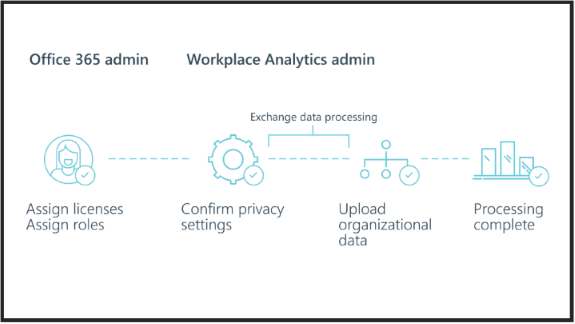
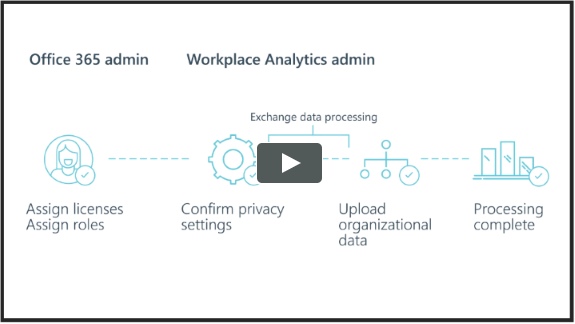
edit video link

Changed region(s): [[0.4435, 0.4321, 0.5617, 0.5864]]

diff --git a/WorkplaceAnalytics/Setup/Set-up-Workplace-Analytics.md b/WorkplaceAnalytics/Setup/Set-up-Workplace-Analytics.md
@@ -21,11 +21,13 @@ Use this checklist to help assemble the people and obtain the data and configura
 > [!TIP]
 > This checklist outlines recommended steps and a high-level list of items to consider. It is not intended to be exhaustive. You might want to copy this checklist into a spreadsheet and then customize it for your organization.
 
-### Overview for admins
+### Video: Overview for admins
 
 To quickly obtain an understanding of how Workplace Analytics works and to see an overview of the initial steps for getting Workplace Analytics up and running, watch the following video:
 
+<!--
 [Admin overview video](https://aka.ms/WpAAdminOverview_Video)
+-->
 
 [<img src="../Images/WpA/setup/Admin-overview-sm.png" alt="Admin overview video">](https://aka.ms/WpAAdminOverview_Video)
 
